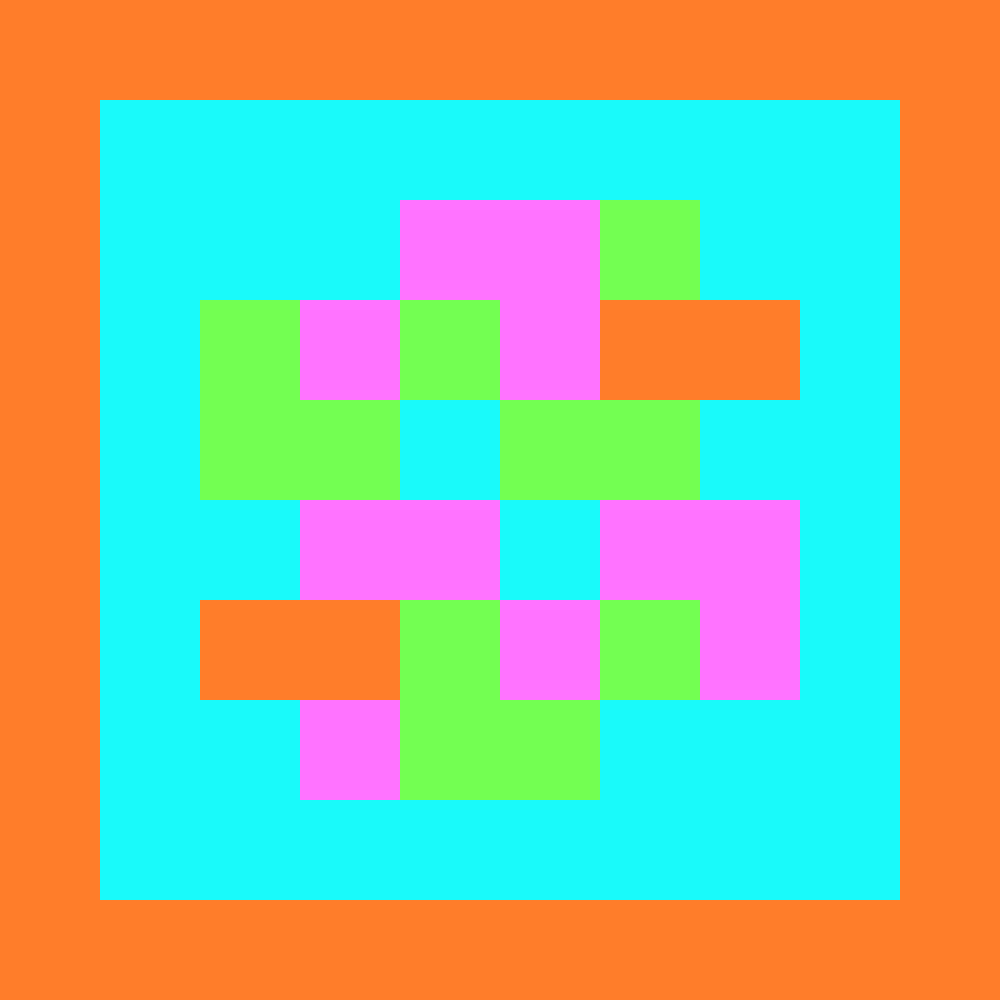
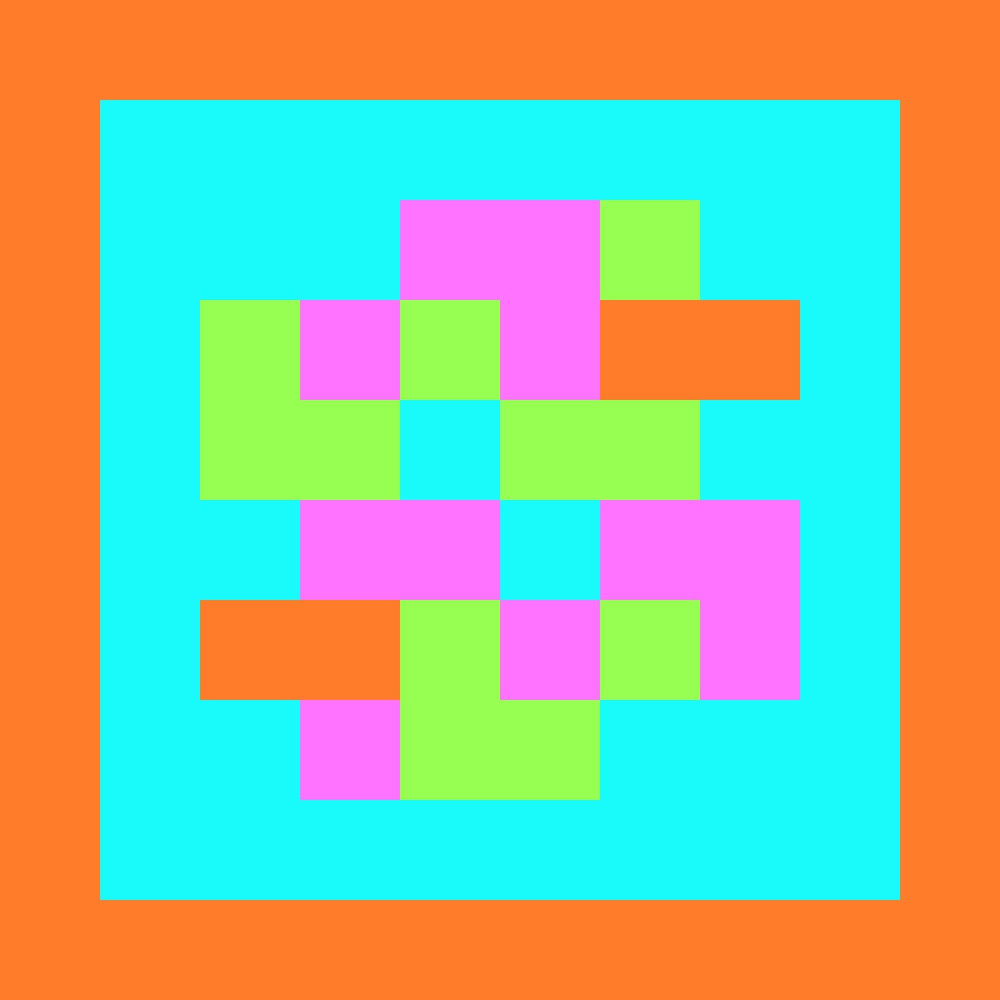
last one I hope for color

Changed region(s): [[0.186, 0.279, 0.713, 0.527], [0.403, 0.589, 0.713, 0.806], [0.589, 0.186, 0.713, 0.31]]

diff --git a/robustChroma.py b/robustChroma.py
@@ -25,7 +25,7 @@ from PIL import Image
 
 orange = (255,  125, 42)
 magenta = (255, 115, 255)
-lime = (115, 255, 82)
+lime = (150, 255, 82)
 teal = (25, 250, 250)
 
 black = (0, 0, 0)
